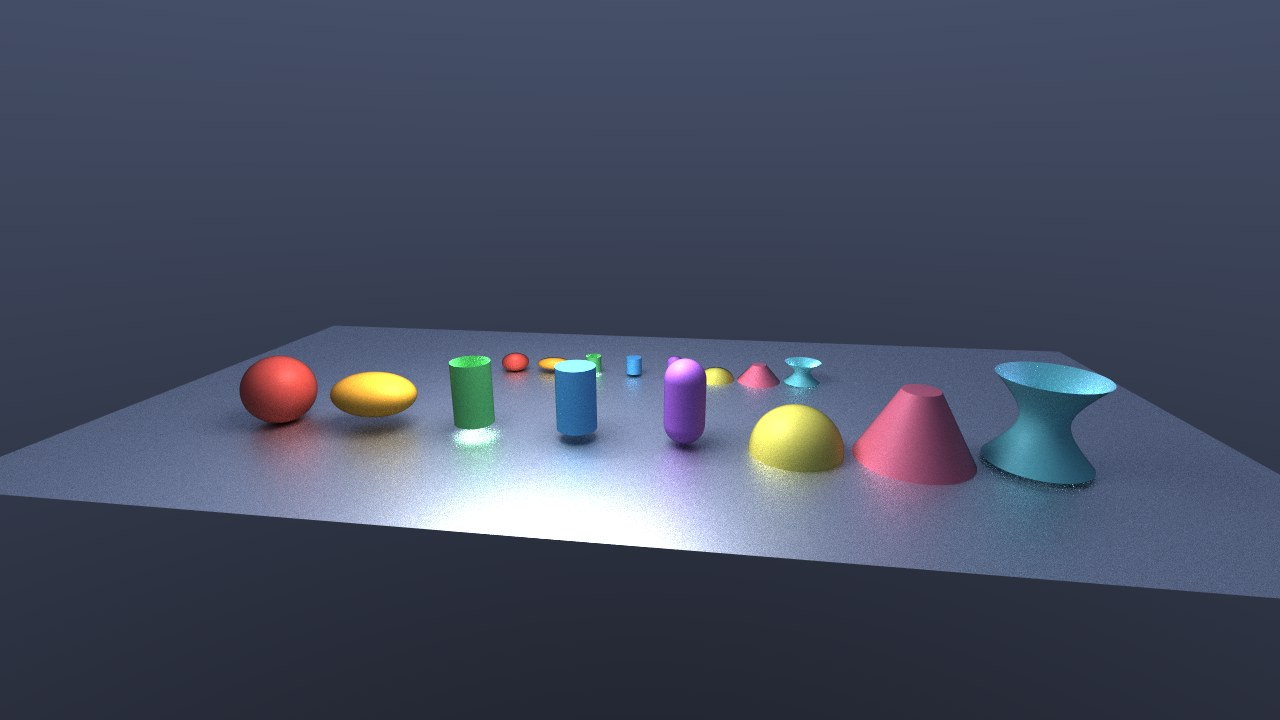
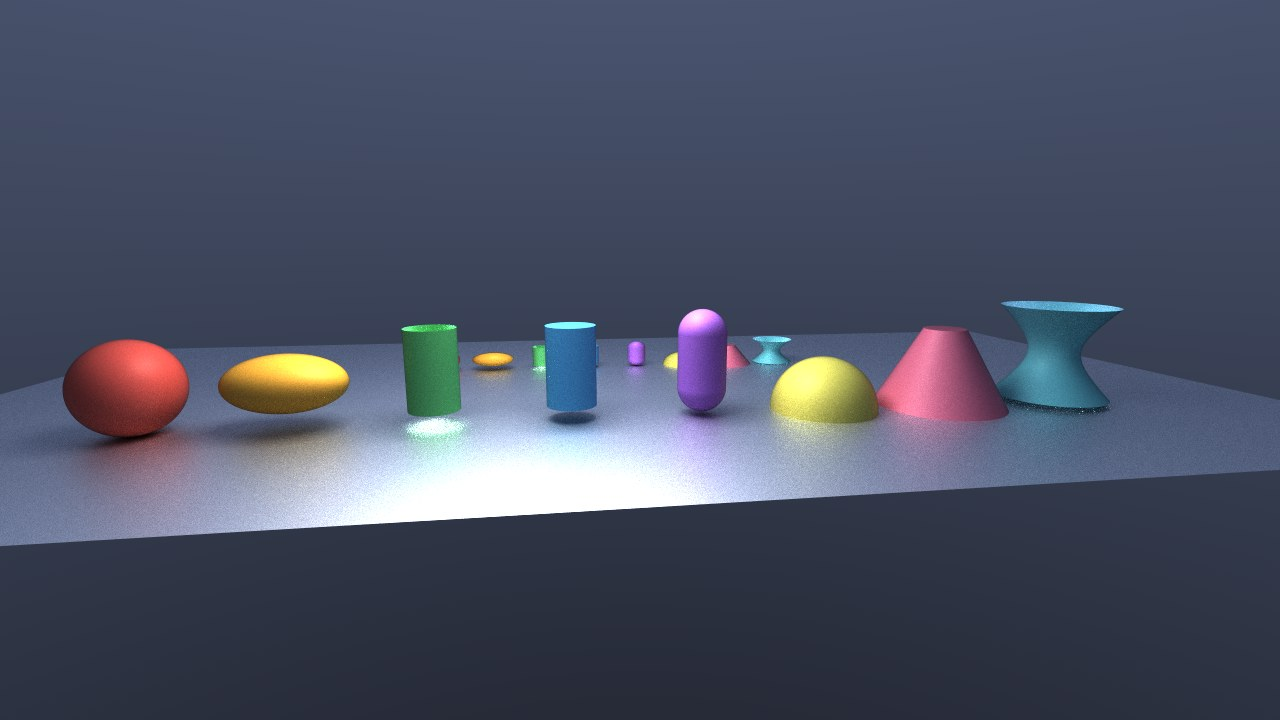
sv: the gallery walks, and the roadmap said it could not
Switches quadric-gallery to the fly camera, which is what a scene laid out on a
floor wants — the distinction sv::camera_style already draws between a subject
held at arm's length and one you walk into.

One call picks it.
The viewer routes that view's events to the controller and runs the per-frame
update a held key needs, and switching mid-session re-seeds the incoming
controller from where the outgoing one left the camera.

docs/structure.md claimed only the orbit controller was wired in, which has not
been true for some time: view_ref::camera_style, the event routing in
viewer.cc, the per-frame fly update and the re-seeding on switch are all there.
Corrected in the same change, since the claim is what sent me looking.

The lower viewpoint is a better picture as a side effect: standing among the
shapes rather than looking down at them, the open tube's interior reads at a
glance against the capped one's lid.

Assisted-By: Claude Code claude-opus-5[1m]

Changed region(s): [[0.0, 0.3972, 1.0, 0.8556]]

diff --git a/libs/graphics/shaped-viewer/examples/quadric-gallery.cc b/libs/graphics/shaped-viewer/examples/quadric-gallery.cc
@@ -32,6 +32,14 @@ using namespace cc::primitive_defines;
 // That is the same frequency a mesh reads a per-face colour at, and it generates the same line of shader code — a quadric
 // batch and a triangle mesh differ in the preamble that builds the shading context and in nothing else.
 //
+// The camera is the FLY one rather than the orbit default, because this is a scene laid out on a floor rather than a
+// subject held at arm's length — which is exactly the distinction `sv::camera_style` draws.
+// One call picks it; the viewer routes the events and runs the per-frame integration a held key needs.
+//
+// Controls
+//   right-drag   look           W/A/S/D   move along the view         E / Q   rise and fall
+//   shift        faster         ctrl      slower                      wheel   retune the base speed
+//
 // Run it:
 //   uv run dev.py example shaped-viewer/quadric-gallery
 //   uv run dev.py example shaped-viewer/quadric-gallery --capture
@@ -174,10 +182,15 @@ EXAMPLE("shaped-viewer/quadric-gallery")
     for (auto f : sv::interactive("shaped-viewer/quadric-gallery"))
     {
         auto view = f.window().view();
-        view.initial_orbit({.target = tg::pos3d(0, 1.4, 1.6),
-                            .distance = 15.0,
-                            .azimuth = tg::angle_d::make_from_degree(8.0),
-                            .elevation = tg::angle_d::make_from_degree(17.0)});
+
+        // Where the walk starts, applied the first time this view id is seen; after that wherever it has been flown to wins.
+        view.initial_fps({.position = tg::pos3d(-1.5, 3.2, -11.0),
+                          .yaw = tg::angle_d::make_from_degree(8.0),
+                          .pitch = tg::angle_d::make_from_degree(-11.0)});
+
+        // Re-asserted every frame, like `movable`: the viewer routes input against the PREVIOUS frame's answer, so a call
+        // that stops being made hands the view back to the orbit controller.
+        view.camera_style(sv::camera_style::fly);
 
         auto scene = view.add_scene();
         scene.add_mesh(floor);

diff --git a/libs/graphics/shaped-viewer/docs/structure.md b/libs/graphics/shaped-viewer/docs/structure.md
@@ -53,7 +53,8 @@ bindless tables                          [in progress]  sv hand-declares the lay
 pathtrace_routine                        [in progress]  the DXR GI trace view_renderer drives: TLAS + dispatch_rays into a UAV target
 pbr_raytrace_routine                     [in progress]  the flat single-bounce IBL DXR trace (SH environment), driven directly
 sv_shaders package                       [in progress]  raygen / miss+closest-hit, plus layout.hlsl (border / view / wipe), via slib
-camera / controls                        [in progress]  dev-friendly pinhole camera, plus sv::orbit_camera_controller (event-driven) and sv::fps_camera_controller; only the orbit one is wired in
+camera / controls                        [in progress]  dev-friendly pinhole camera, plus sv::orbit_camera_controller (event-driven) and sv::fps_camera_controller (integrated over time).
+                                                        BOTH are wired in: `view_ref::camera_style` picks one, the viewer routes that view's events to it and runs the per-frame update, and switching mid-session re-seeds the incoming controller from where the outgoing one left the camera
 persistent per-view state                [in progress]  view_id keys what a view keeps — camera, controller, zoom, display name, last rect, composite target and accumulators — all in one sv::view_store the frame owns
 id stack (push_id / scoped_id)           [done]         seeds view_id so one name under N scopes names N views; independent of layout nesting, and a duplicate within a frame asserts.
                                                         Ids are formattable and take an ImGui-style ## suffix, which separates two views without changing what a human reads
